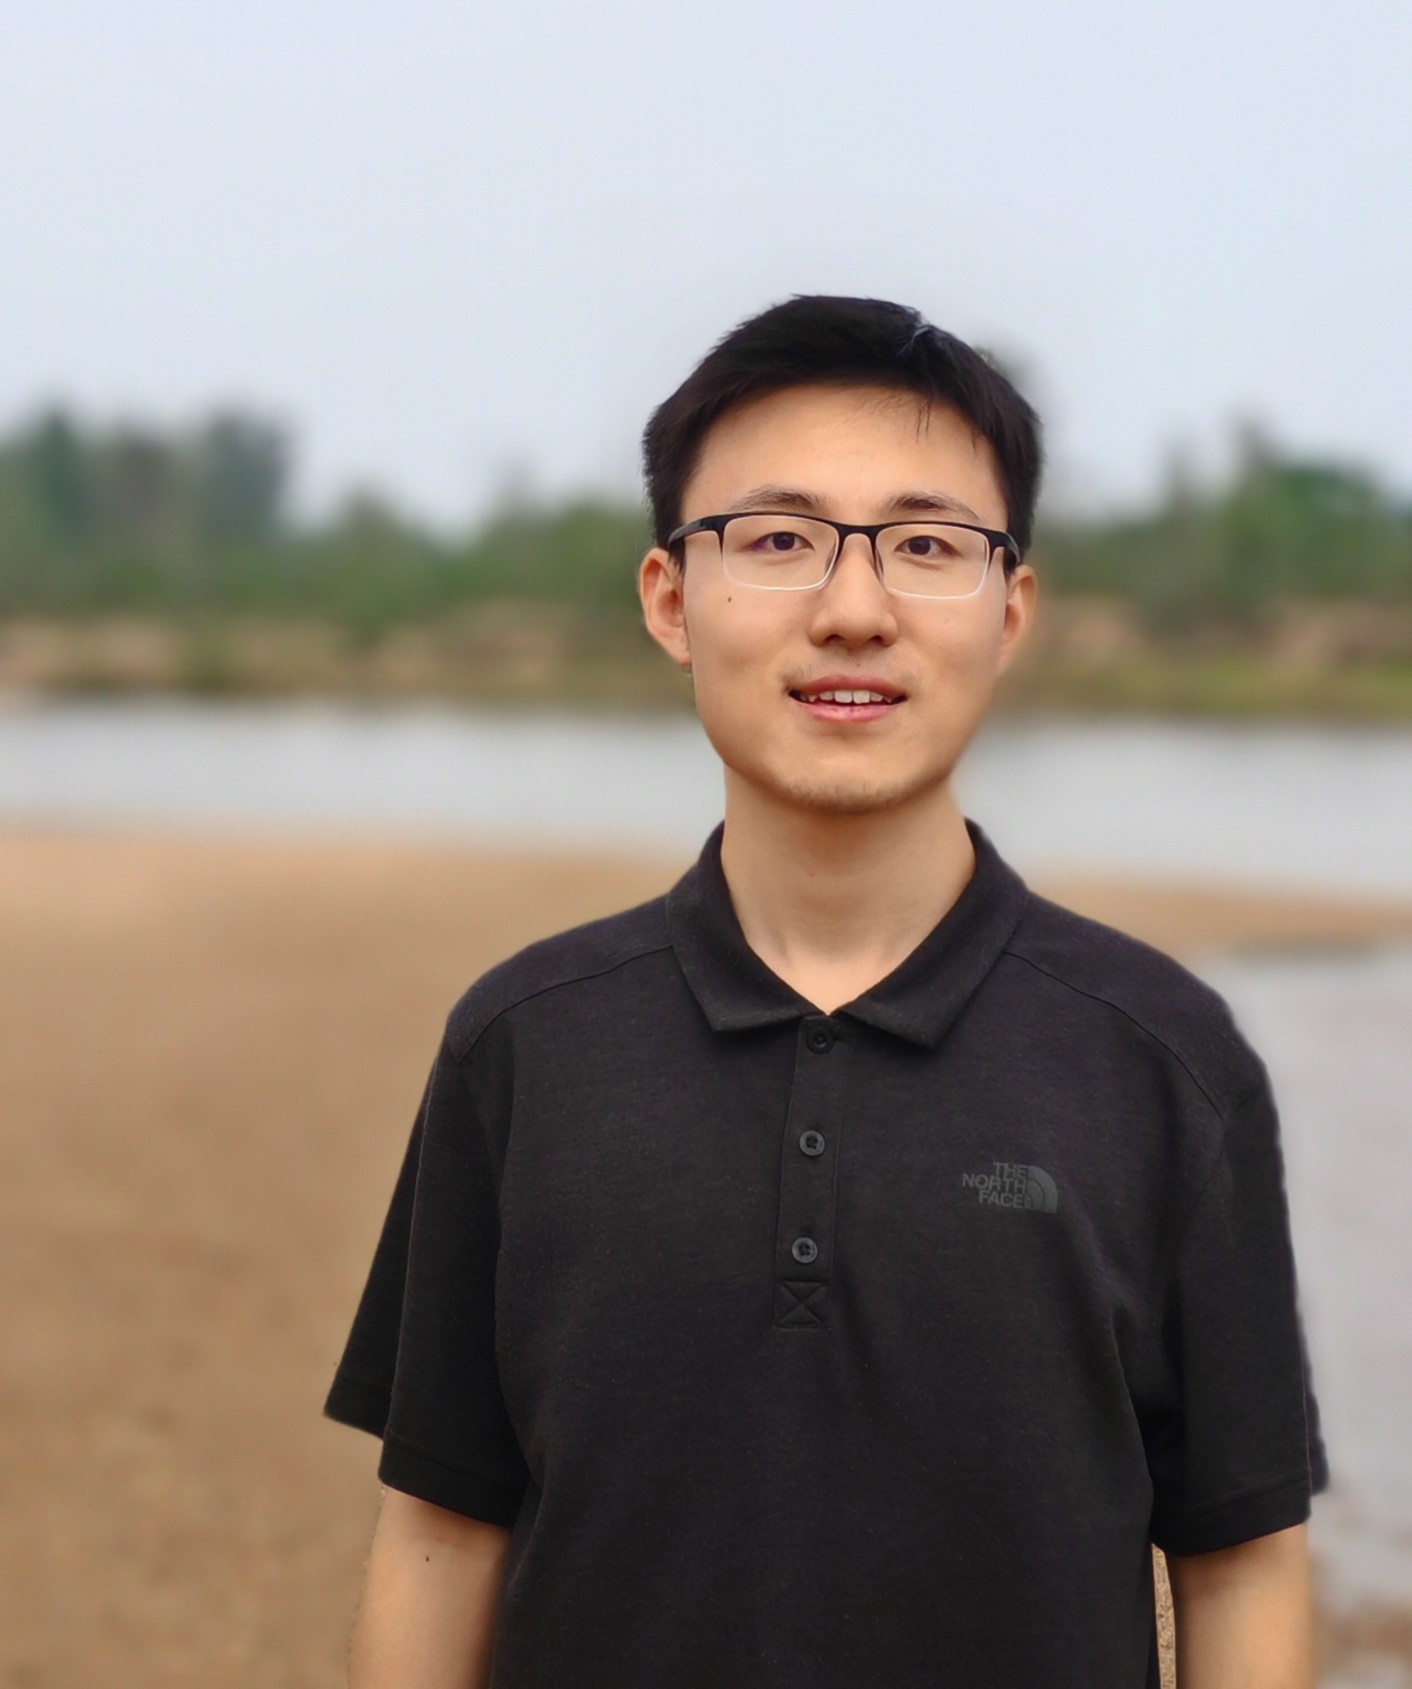
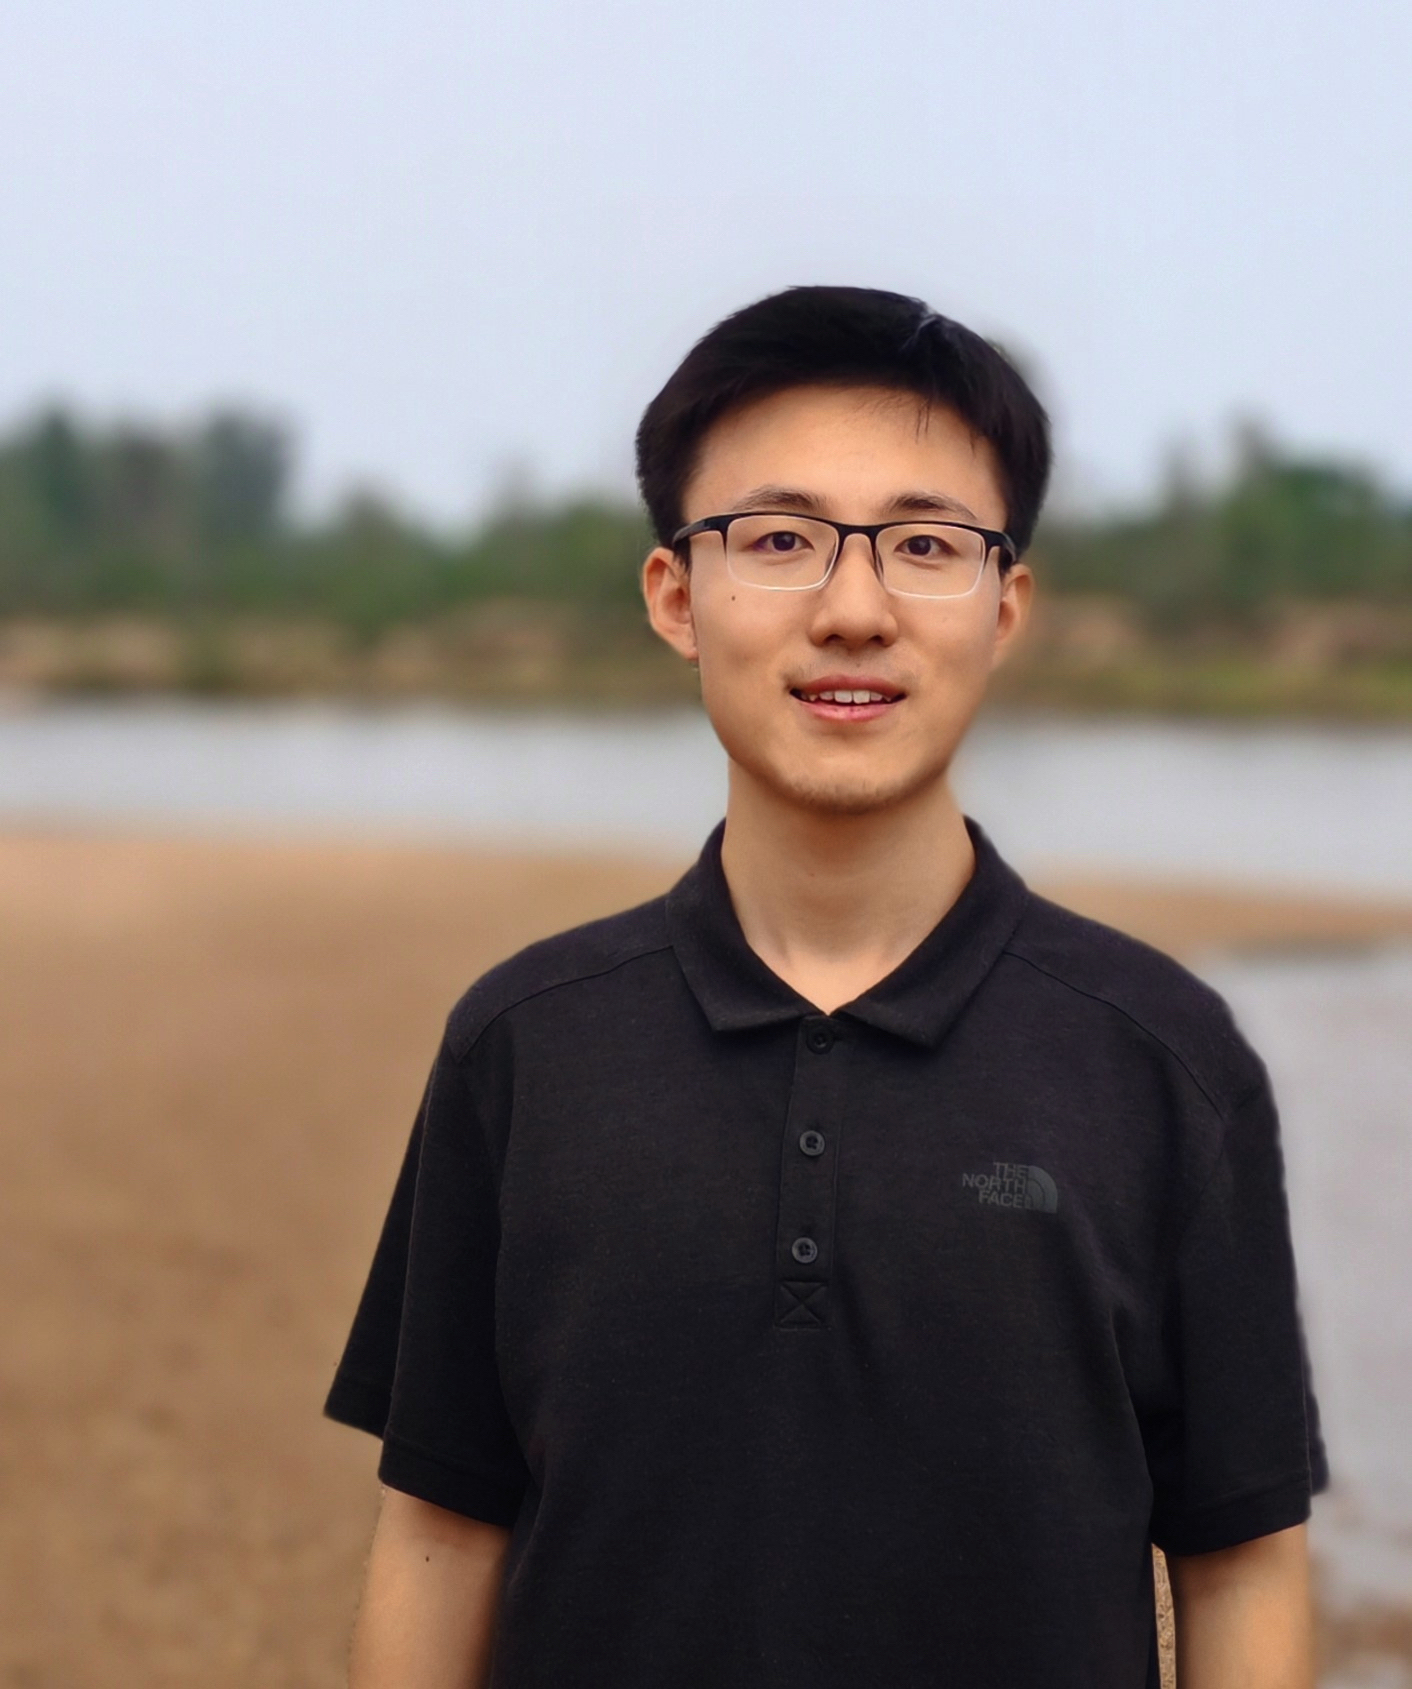
update

Changed region(s): [[0.4363, 0.1539, 0.7479, 0.4926]]

diff --git a/_site/index.html b/_site/index.html
@@ -3,7 +3,7 @@
   <head>
   <meta http-equiv="content-type" content="text/html; charset=utf-8">
   <meta name="viewport" content="width=device-width, initial-scale=1.0">
-  <!-- <title>Rui Tao &#8226; Shanghai Jiao Tong University  School of Electronic Information and Electrical Engineering</title> -->
+  <!-- <title>Rui Tao &#8226; Shanghai Institute for Mathematics and Interdisciplinary Sciences</title> -->
   <title>Rui Tao</title>
 
   <link rel="apple-touch-icon" href="images/close_up_xs.jpg"/>
@@ -18,7 +18,7 @@
   <link rel="canonical" href="http://localhost:4000/">
 
   <meta name="author" content="Rui Tao">
-  <meta name="description" content="<a href='https://www.sjtu.edu.cn/'>Shanghai Jiao Tong University</a> <br><br> <a href='https://www.seiee.sjtu.edu.cn/'>School of Electronic Information and Electrical Engineering</a>"/>
+  <meta name="description" content="<a href='https://www.simis.cn/zh/'>Shanghai Institute for Mathematics and Interdisciplinary Sciences</a>"/>
 
 
   <!-- <link rel="apple-touch-icon" sizes="180x180" href="/apple-touch-icon.png">
@@ -31,15 +31,15 @@
 
   <!-- Open Graph tags -->
   <meta property="og:type" content="website"/>
-  <meta property="og:title" content="<a href='https://www.sjtu.edu.cn/'>Shanghai Jiao Tong University</a> <br><br> <a href='https://www.seiee.sjtu.edu.cn/'>School of Electronic Information and Electrical Engineering</a>"/>
+  <meta property="og:title" content="<a href='https://www.simis.cn/zh/'>Shanghai Institute for Mathematics and Interdisciplinary Sciences</a>"/>
   <meta property="og:url" content="http://localhost:4000/"/>
   <meta property="og:image" content="http://localhost:4000images/close_up_xs.jpg"/>
   <meta property="og:description" content=""/>
-  <meta property="og:site_name" content="<a href='https://www.sjtu.edu.cn/'>Shanghai Jiao Tong University</a> <br><br> <a href='https://www.seiee.sjtu.edu.cn/'>School of Electronic Information and Electrical Engineering</a>">
+  <meta property="og:site_name" content="<a href='https://www.simis.cn/zh/'>Shanghai Institute for Mathematics and Interdisciplinary Sciences</a>">
 
   <!-- Twitter Card tags -->
   <meta name="twitter:card" content="summary">
-  <meta name="twitter:title" content="<a href='https://www.sjtu.edu.cn/'>Shanghai Jiao Tong University</a> <br><br> <a href='https://www.seiee.sjtu.edu.cn/'>School of Electronic Information and Electrical Engineering</a>">
+  <meta name="twitter:title" content="<a href='https://www.simis.cn/zh/'>Shanghai Institute for Mathematics and Interdisciplinary Sciences</a>">
   
   
   <meta name="twitter:url" content="http://localhost:4000/">
@@ -67,7 +67,7 @@
         
 
         
-        <div class="tagline-container"><p><a href='https://www.sjtu.edu.cn/'>Shanghai Jiao Tong University</a> <br><br> <a href='https://www.seiee.sjtu.edu.cn/'>School of Electronic Information and Electrical Engineering</a></p></div>
+        <div class="tagline-container"><p><a href='https://www.simis.cn/zh/'>Shanghai Institute for Mathematics and Interdisciplinary Sciences</a></p></div>
         
     </header>
     <main>
@@ -75,35 +75,50 @@
       <div class="content">
         
 <h2>About me</h2>
-<p>Hi there 👋 My name is Rui Tao(陶瑞). I'm currently a junior undergraduate student in SJTU, majoring in computer science in <a href="https://ieee.icu/#/">IEEE class</a>.
-I'm honored to be an intern-researcher in <a href="https://thinklab.sjtu.edu.cn/">ReThinkLab</a>, advised by Prof. <a href="https://thinklab.sjtu.edu.cn/">Junchi Yan</a> and Dr. <a href="https://www.researchgate.net/profile/Liangliang-Shi-2">Liangliang Shi</a>.
-My research interests include machine learning, combinatorial optimization. 
-I'm currently focusing on Optimal Transportation(OT) variants and applications.</p>
+<p>Hi there 👋 My name is Rui Tao (陶瑞). I am currently a first-year Ph.D. candidate at <a href="https://www.simis.cn/zh/">SIMIS</a>, advised by Prof.<a href="https://www.researchgate.net/profile/Liangliang-Shi-2">Liangliang Shi</a>.
+<br>
+Before joining SIMIS, I received my B.Eng. degree in Computer Science from SJTU as a member of the <a href="https://sjtu-ieee.github.io/ieee.icu/#/">IEEE Honor Class</a>. I was fortunate to work as a research intern at <a href="https://thinklab.sjtu.edu.cn/">ReThinkLab</a>, advised by Prof.<a href="https://thinklab.sjtu.edu.cn/">Junchi Yan</a>.
+<br>
+My current interests span ML/DL, optimization, auto-formalization. Previously, I worked extensively on Optimal Transport (OT) theory. I am interested in developing neural approaches for efficient optimization, as well as discovering new computational structures in learning systems that inspire better models and algorithms.
 
 
 <h2>Publication</h2>
-<p><span class="textbox">ICML 2025</span> Under reviewing</p>
 
+<div class="pub-row">
+  <img class="pub-img" src="images\MLOT.png" style="height: auto;">
+  <p class="pub-title"><a href="">MLOT: Generalizing the Bipartite Structure to a Multi-Layered Framework for Optimal Transport</a></p>
+  <p class="pub-authors"><strong>Rui Tao</strong>, Liangliang Shi, and Junchi Yan</p>
+  <p class="pub-authors"><em>TPAMI under review</em></p>
+</div>
+
+<div class="pub-row">
+  <img class="pub-img" src="images\COT.png" style="aspect-ratio: 2/1; object-fit: fill;">
+  <p class="pub-title"><a href="">Consistent Optimal Transport for Global Topology Constraints in Assignment and Routing Problem</a></p>
+  <p class="pub-authors">Junchi Yan, <strong>Rui Tao</strong>, Duorui Li, Jiale Hong, Liangliang Shi, and Athanasios V. Vasilakos</p>
+  <p class="pub-authors"><em>TPAMI under review</em></p>
+</div>
 
 
 
 <h2>Experiences</h2>
 <p>◉ 2024/25 Spring<br>
    TA for AI2516: Design and Analysis of Algorithms</p>
-<p>◉ 2025.2 -- Now<br>
+<p>◉ 2025.2 -- 2025.4<br>
    Intern researcher in Shanghai AI Lab</p>
-<p>◉ 2023.11 -- Now<br>
+<p>◉ 2023.11 -- 2026.8<br>
    Intern researcher in ReThinkLab</p>
+<p>◉ 2026.8 -- Now<br>
+   Intern researcher in ReThinkLab@SIMIS</p>
 
 <hr/>
 
 
 <h2>Course Note</h2>
-<p>[SJTU] CS3602 《自然语言处理》<href="https://github.com/CalciumArgon/CS3602_NLP_course_note"><br>Note</a> | <a href="https://github.com/CalciumArgon/CS3602_NLP_course_note">Homework</a></p>
+<p>[SJTU] CS3602《自然语言处理》<href="https://github.com/CalciumArgon/CS3602_NLP_course_note"><br>Note</a> | <a href="https://github.com/CalciumArgon/CS3602_NLP_course_note">Homework</a></p>
 
 <p>[SJTU] AI2615《算法设计与分析》<br><a href="/assets/files/AI2615_note.pdf">Note</a> | <a href="/assets/files/AI2615_my_homework_merge.pdf">Homework</a></p>
 
-<p>[UCB] CS61A 《程序构造原理》<a href="https://github.com/CalciumArgon/CS61A_course_projects"><br>Code</a></p>
+<p>[UCB] CS61A《程序构造原理》<a href="https://github.com/CalciumArgon/CS61A_course_projects"><br>Code</a></p>
 
 <!-- <p>CS50AI: [ Harvard ]<br> 《人工智能导论》Note & Code</p> -->
 <!-- <p>CS15213: [ CMU ]<br> 《深入理解计算机系统》<a href="https://github.com/CalciumArgon/CSAPP_course_lab">Note & Code</a></p> -->

diff --git a/_includes/content.html b/_includes/content.html
@@ -1,34 +1,49 @@
 
 <h2>About me</h2>
-<p>Hi there 👋 My name is Rui Tao(陶瑞). I'm currently a junior undergraduate student in SJTU, majoring in computer science in <a href="https://ieee.icu/#/">IEEE class</a>.
-I'm honored to be an intern-researcher in <a href="https://thinklab.sjtu.edu.cn/">ReThinkLab</a>, advised by Prof. <a href="https://thinklab.sjtu.edu.cn/">Junchi Yan</a> and Dr. <a href="https://www.researchgate.net/profile/Liangliang-Shi-2">Liangliang Shi</a>.
-My research interests include machine learning, combinatorial optimization. 
-I'm currently focusing on Optimal Transportation(OT) variants and applications.</p>
+<p>Hi there 👋 My name is Rui Tao (陶瑞). I am currently a first-year Ph.D. candidate at <a href="https://www.simis.cn/zh/">SIMIS</a>, advised by Prof.<a href="https://www.researchgate.net/profile/Liangliang-Shi-2">Liangliang Shi</a>.
+<br>
+Before joining SIMIS, I received my B.Eng. degree in Computer Science from SJTU as a member of the <a href="https://sjtu-ieee.github.io/ieee.icu/#/">IEEE Honor Class</a>. I was fortunate to work as a research intern at <a href="https://thinklab.sjtu.edu.cn/">ReThinkLab</a>, advised by Prof.<a href="https://thinklab.sjtu.edu.cn/">Junchi Yan</a>.
+<br>
+My current interests span ML/DL, optimization, auto-formalization. Previously, I worked extensively on Optimal Transport (OT) theory. I am interested in developing neural approaches for efficient optimization, as well as discovering new computational structures in learning systems that inspire better models and algorithms.
 
 
 <h2>Publication</h2>
-<p><span class="textbox">ICML 2025</span> Under reviewing</p>
 
+<div class="pub-row">
+  <img class="pub-img" src="images\MLOT.png" style="height: auto;">
+  <p class="pub-title"><a href="">MLOT: Generalizing the Bipartite Structure to a Multi-Layered Framework for Optimal Transport</a></p>
+  <p class="pub-authors"><strong>Rui Tao</strong>, Liangliang Shi, and Junchi Yan</p>
+  <p class="pub-authors"><em>TPAMI under review</em></p>
+</div>
+
+<div class="pub-row">
+  <img class="pub-img" src="images\COT.png" style="aspect-ratio: 2/1; object-fit: fill;">
+  <p class="pub-title"><a href="">Consistent Optimal Transport for Global Topology Constraints in Assignment and Routing Problem</a></p>
+  <p class="pub-authors">Junchi Yan, <strong>Rui Tao</strong>, Duorui Li, Jiale Hong, Liangliang Shi, and Athanasios V. Vasilakos</p>
+  <p class="pub-authors"><em>TPAMI under review</em></p>
+</div>
 
 
 
 <h2>Experiences</h2>
 <p>◉ 2024/25 Spring<br>
    TA for AI2516: Design and Analysis of Algorithms</p>
-<p>◉ 2025.2 -- Now<br>
+<p>◉ 2025.2 -- 2025.4<br>
    Intern researcher in Shanghai AI Lab</p>
-<p>◉ 2023.11 -- Now<br>
+<p>◉ 2023.11 -- 2026.8<br>
    Intern researcher in ReThinkLab</p>
+<p>◉ 2026.8 -- Now<br>
+   Intern researcher in ReThinkLab@SIMIS</p>
 
 <hr/>
 
 
 <h2>Course Note</h2>
-<p>[SJTU] CS3602 《自然语言处理》<href="https://github.com/CalciumArgon/CS3602_NLP_course_note"><br>Note</a> | <a href="https://github.com/CalciumArgon/CS3602_NLP_course_note">Homework</a></p>
+<p>[SJTU] CS3602《自然语言处理》<href="https://github.com/CalciumArgon/CS3602_NLP_course_note"><br>Note</a> | <a href="https://github.com/CalciumArgon/CS3602_NLP_course_note">Homework</a></p>
 
 <p>[SJTU] AI2615《算法设计与分析》<br><a href="/assets/files/AI2615_note.pdf">Note</a> | <a href="/assets/files/AI2615_my_homework_merge.pdf">Homework</a></p>
 
-<p>[UCB] CS61A 《程序构造原理》<a href="https://github.com/CalciumArgon/CS61A_course_projects"><br>Code</a></p>
+<p>[UCB] CS61A《程序构造原理》<a href="https://github.com/CalciumArgon/CS61A_course_projects"><br>Code</a></p>
 
 <!-- <p>CS50AI: [ Harvard ]<br> 《人工智能导论》Note & Code</p> -->
 <!-- <p>CS15213: [ CMU ]<br> 《深入理解计算机系统》<a href="https://github.com/CalciumArgon/CSAPP_course_lab">Note & Code</a></p> -->

diff --git a/_site/assets/main.css b/_site/assets/main.css
@@ -127,3 +127,28 @@ footer {
     width: 46%;
     margin-left: 54%;
     padding: 0; } }
+/*** publication ***/
+.pub-row {
+  margin-bottom: 20px;
+  padding-bottom: 16px;
+  border-bottom: 1px dashed #aeaa9e; }
+
+.pub-img {
+  display: block;
+  max-width: 100%;
+  width: 100%;
+  margin-bottom: 10px;
+  border: 1px solid #46433A;
+  border-radius: 4px; }
+
+.pub-title {
+  font-size: 1.05em;
+  font-weight: bold;
+  margin: 0 0 4px 0;
+  line-height: 1.4; }
+
+.pub-authors {
+  font-size: 0.9em;
+  color: #706b5d;
+  margin: 0 0 6px 0;
+  line-height: 1.4; }

diff --git a/assets/main.scss b/assets/main.scss
@@ -162,3 +162,33 @@ footer {
 		padding: 0;
 	}
 }
+
+/*** publication ***/
+.pub-row {
+	margin-bottom: 20px;
+	padding-bottom: 16px;
+	border-bottom: 1px dashed lighten($text-color, 40%);
+}
+
+.pub-img {
+	display: block;
+	max-width: 100%;
+	width: 100%;
+	margin-bottom: 10px;
+	border: 1px solid $text-color;
+	border-radius: 4px;
+}
+
+.pub-title {
+	font-size: 1.05em;
+	font-weight: bold;
+	margin: 0 0 4px 0;
+	line-height: 1.4;
+}
+
+.pub-authors {
+	font-size: 0.9em;
+	color: lighten($text-color, 15%);
+	margin: 0 0 6px 0;
+	line-height: 1.4;
+}
